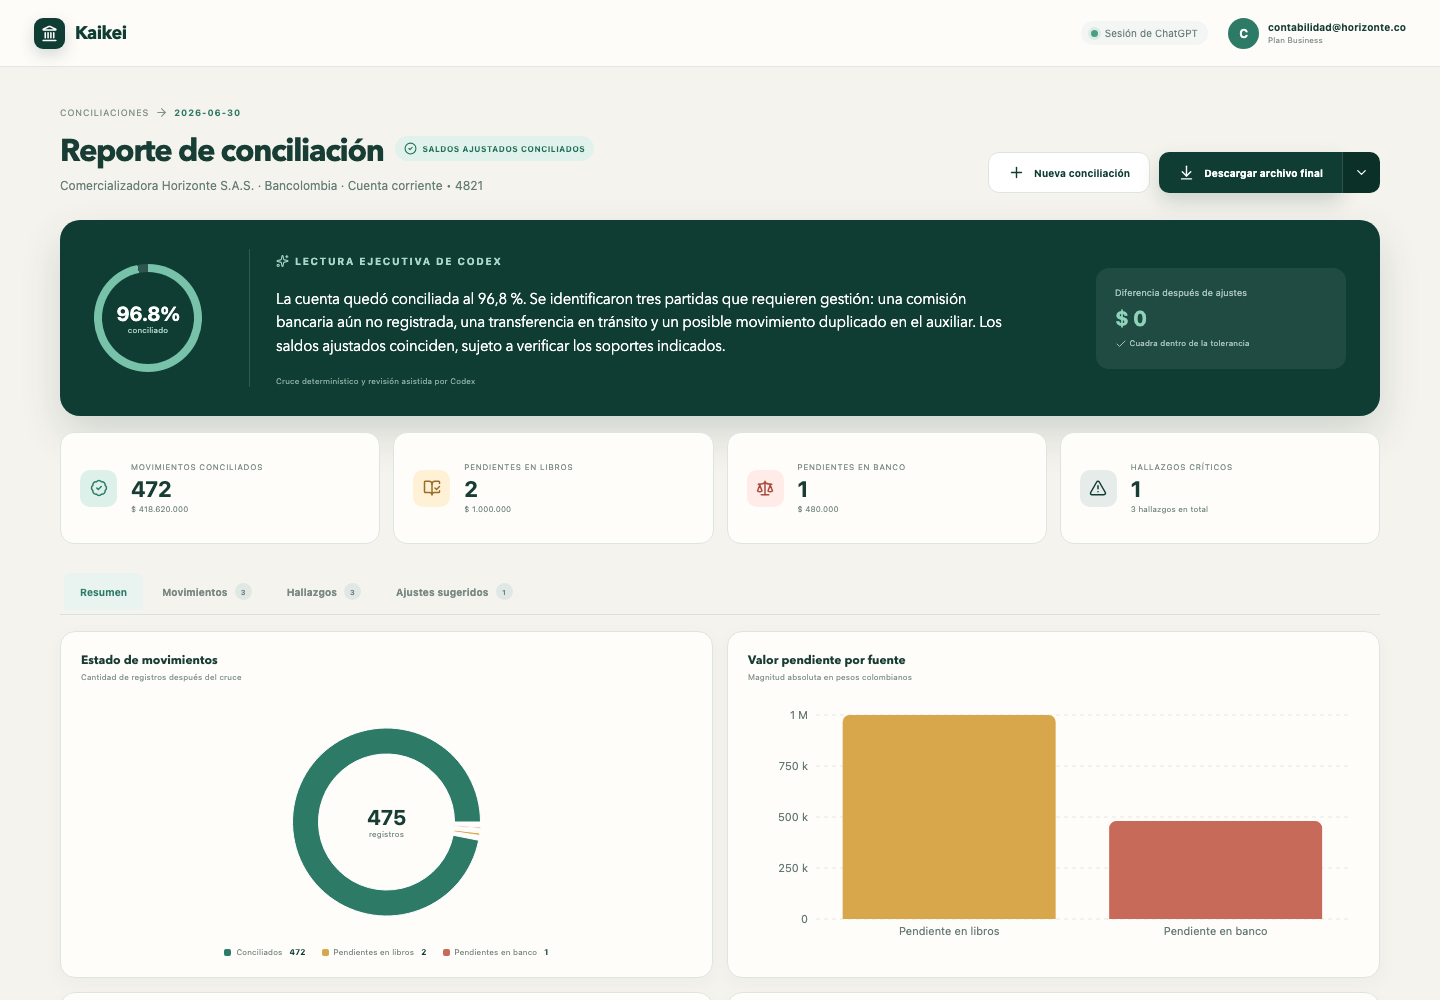
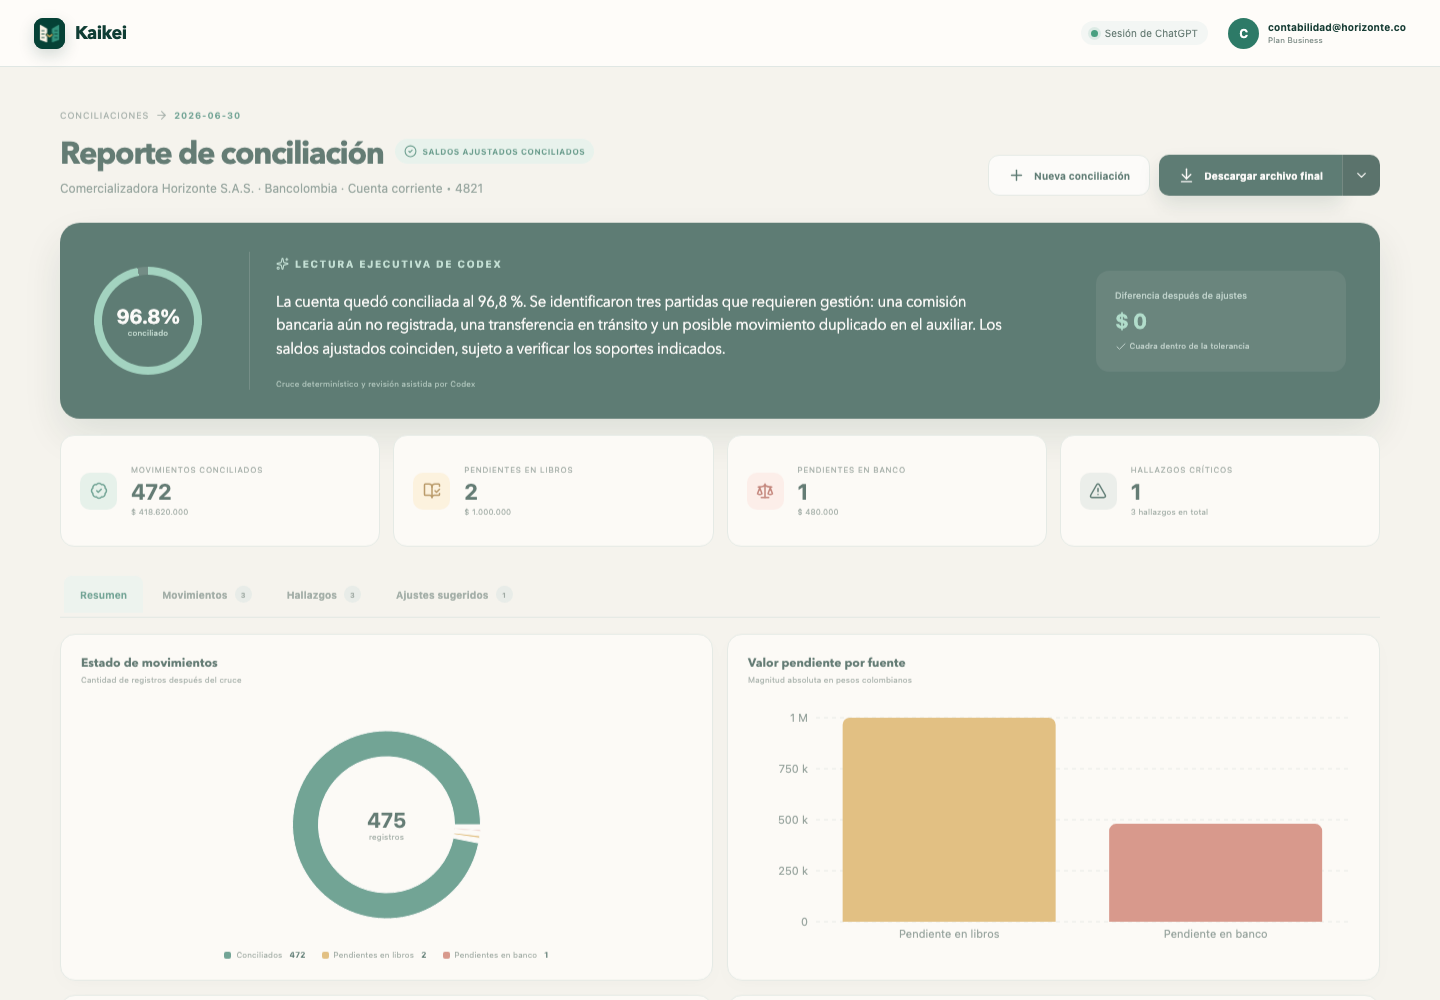
Añade identidad visual de Kaikei

diff --git a/src/components/Brand.tsx b/src/components/Brand.tsx
@@ -1,9 +1,9 @@
-import { Landmark } from "lucide-react";
+import logoMark from "../../assets/logo-kaikei.png";
 
 export function Brand({ compact = false }: { compact?: boolean }) {
   return (
     <div className={`brand ${compact ? "brand--compact" : ""}`}>
-      <span className="brand__mark"><Landmark size={compact ? 17 : 21} strokeWidth={2.2} /></span>
+      <span className="brand__mark"><img src={logoMark} alt="" /></span>
       <span className="brand__name">Kaikei</span>
       {!compact && <span className="brand__tag">Conciliación inteligente</span>}
     </div>

diff --git a/src/styles.css b/src/styles.css
@@ -32,7 +32,8 @@ h1, h2, h3, .brand__name { font-family: Avenir Next, Inter, -apple-system, Blink
 @keyframes page-in { from { opacity: 0; transform: translateY(8px); } to { opacity: 1; transform: none; } }
 
 .brand { display: flex; align-items: center; gap: 10px; }
-.brand__mark { width: 36px; height: 36px; border-radius: 11px; display: grid; place-items: center; color: white; background: var(--deep); box-shadow: 0 6px 16px rgba(15, 61, 52, .18); }
+.brand__mark { width: 36px; height: 36px; border-radius: 11px; display: grid; place-items: center; overflow: hidden; background: var(--deep); box-shadow: 0 6px 16px rgba(15, 61, 52, .18); }
+.brand__mark img { width: 100%; height: 100%; display: block; object-fit: cover; }
 .brand__name { color: var(--deep); font-size: 21px; font-weight: 700; letter-spacing: -.5px; }
 .brand__tag { color: #798b85; border-left: 1px solid #ccd7d3; padding-left: 10px; font-size: 11px; letter-spacing: .2px; }
 .brand--compact .brand__mark { width: 31px; height: 31px; border-radius: 9px; }

diff --git a/README.md b/README.md
@@ -5,7 +5,9 @@ Aplicación Electron para macOS y Windows que concilia un auxiliar contable cont
 > Creado y mantenido por **Mauricio Samper** — Bogotá, Colombia<br>
 > Contacto: [[email redacted]](mailto:[email redacted])
 
-![Kaikei](assets/icon.png)
+<p align="center">
+  <img src="assets/logo-kaikei.png" alt="Logo de Kaikei" width="180">
+</p>
 
 ## Qué incluye
 